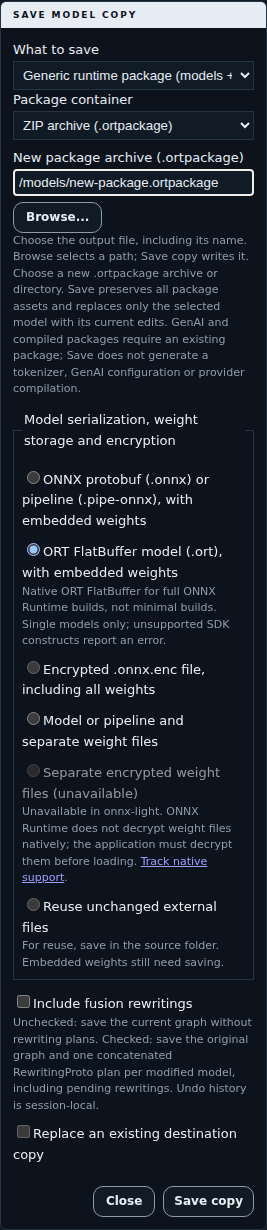
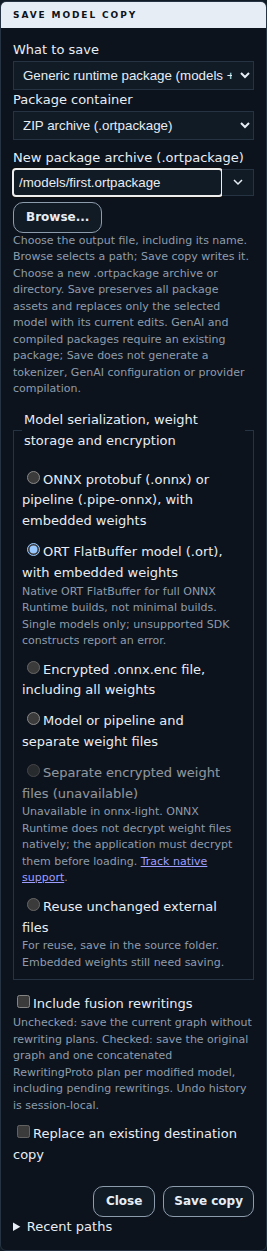
Merge Save destination input and history dropdown
Keep free path entry and the complete recent-file selector together as one visual control. Preserve native keyboard selection and history contents; update documentation and the real UI screenshot.

Changed region(s): [[0.03, 0.0, 0.9588, 0.9886]]

diff --git a/src/webview.ts b/src/webview.ts
@@ -577,11 +577,14 @@ export function webviewHtml(
               <div id="save-package-layout-options" hidden><label for="save-package-layout">Package container</label><select id="save-package-layout"><option value="archive">ZIP archive (.ortpackage)</option><option value="directory">Directory</option></select></div>
               <label id="save-file-label" for="save-file">File name or path</label>
               <div class="save-path-field">
-                <input id="save-file" type="text" value="model-copy.onnx" required autocomplete="off" aria-describedby="save-path-help">
+                <div class="save-path-combobox">
+                  <input id="save-file" type="text" value="model-copy.onnx" required autocomplete="off" aria-describedby="save-path-help">
+                  <select id="save-file-history" aria-label="Recent destination paths" title="Choose a recent destination" disabled hidden><option value="">Choose a recent path...</option></select>
+                  <svg class="save-history-arrow" viewBox="0 0 12 12" width="12" height="12" aria-hidden="true"><path d="M2 4 6 8 10 4" fill="none" stroke="currentColor" stroke-width="1.5"/></svg>
+                </div>
                 <button id="save-path-browse" type="button" aria-label="Choose output file">Browse...</button>
               </div>
               <p id="save-path-help">Choose the output file, including its name. Browse selects a path; Save copy writes it.</p>
-              <select id="save-file-history" aria-label="Recent destination paths" disabled hidden><option value="">Choose a recent path...</option></select>
               <p id="save-package-note" hidden>Choose a new .ortpackage archive or directory. Save preserves all package assets and replaces only the selected model with its current edits. GenAI and compiled packages require an existing package; Save does not generate a tokenizer, GenAI configuration or provider compilation.</p>
               <fieldset class="save-grid">
                 <legend>Model serialization, weight storage and encryption</legend>

diff --git a/media/viewer.css b/media/viewer.css
@@ -1668,9 +1668,45 @@ button:disabled {
   align-items: center;
   gap: 6px;
 }
-.save-path-field input {
+.save-path-combobox {
+  position: relative;
+  display: flex;
   flex: 1 1 14rem;
   min-width: 0;
+}
+.save-path-combobox #save-file {
+  flex: 1;
+  min-width: 0;
+}
+.save-path-combobox:has(select:not([hidden])) #save-file {
+  border-right: 0;
+  border-top-right-radius: 0;
+  border-bottom-right-radius: 0;
+}
+.save-path-combobox #save-file-history {
+  appearance: none;
+  flex: 0 0 2rem;
+  width: 2rem;
+  min-width: 0;
+  padding: 0;
+  border-left: 0;
+  border-top-left-radius: 0;
+  border-bottom-left-radius: 0;
+  color: transparent;
+}
+.save-history-arrow {
+  position: absolute;
+  right: 10px;
+  top: 50%;
+  transform: translateY(-50%);
+  pointer-events: none;
+}
+.save-path-combobox:has(select[hidden]) .save-history-arrow {
+  display: none;
+}
+.save-path-combobox option {
+  color: var(--text);
+  background: var(--panel);
 }
 .save-path-field button {
   flex-shrink: 0;

diff --git a/docs/features.rst b/docs/features.rst
@@ -94,7 +94,8 @@ Choose **ZIP archive (.ortpackage)** or **Directory** independently of the
 model serialization: ONNX protobuf, ORT FlatBuffer, or a pipeline.
 One output field adapts to a file or a new directory. **Browse...** chooses its
 name and location; **Save copy** writes it. There is no separate destination
-directory or unlabeled file listing.
+directory or unlabeled file listing. The arrow inside the output field chooses
+a recent destination without restricting what you can type.
 New archives contain a version-1 manifest; existing manifests and other assets
 are preserved, with references updated when the selected model changes format.
 GenAI and compiled packages require existing configuration/provider assets;

diff --git a/docs/features/opening_models.rst b/docs/features/opening_models.rst
@@ -158,6 +158,9 @@ directory or embedded file listing. Type the output path or use **Browse...**
 to choose its name and location through VS Code. Choosing a path does not write
 anything; **Save copy** performs the save. Storage, encryption and password
 confirmation remain in the sidebar.
+The output field's dropdown arrow lists all remembered destination files,
+even when the current name does not match them; selecting one fills that same
+field. There is no second history selector below it.
 
 .. list-table::
    :header-rows: 1
